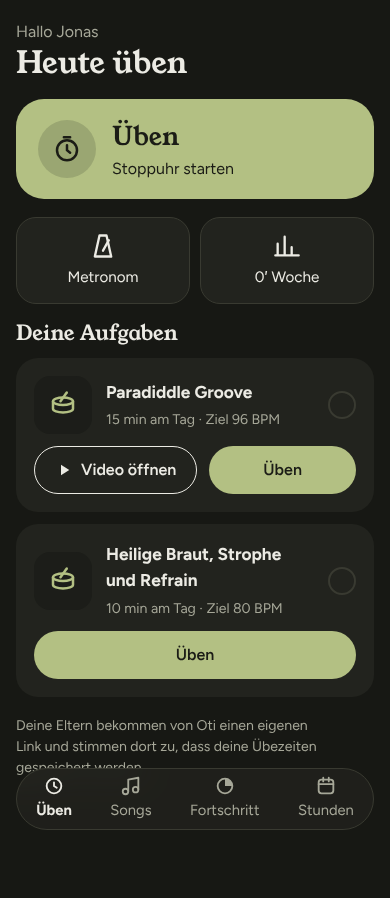
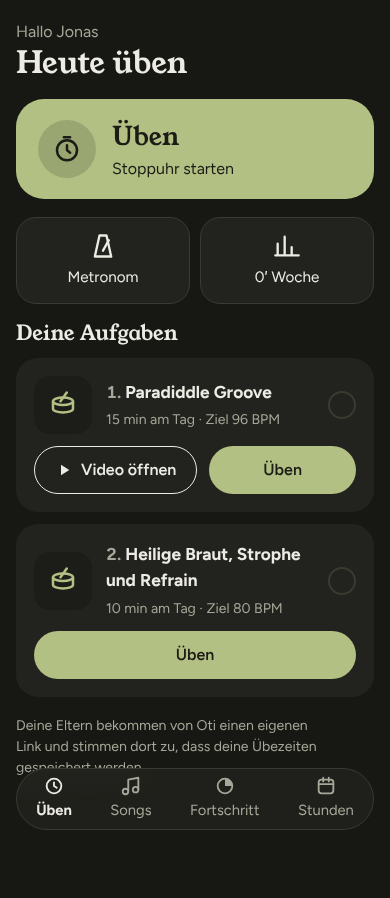
Hausaufgaben nummeriert (Schüler, Akte, Stunde), Nummern folgen der Reihenfolge
Claude-Session: https://claude.ai/code/session_01A3bZV3jynFTyqUVRK9pefN

Changed region(s): [[0.2769, 0.4053, 0.7077, 0.4677], [0.2769, 0.5924, 0.7692, 0.6236]]

diff --git a/public/index.html b/public/index.html
@@ -135,6 +135,10 @@ input[type=range]{accent-color:var(--ring);width:100%;min-height:32px}
 .clock-mini.paused{border-color:var(--ring)}
 .drag{cursor:grab;touch-action:none;user-select:none;-webkit-user-select:none;padding:10px 8px;margin-left:-8px;color:var(--muted);font-size:1.1rem;line-height:1;letter-spacing:-3px;align-self:center}
 .item.dragging{opacity:.75;background:var(--track);border-radius:12px}
+.asg-num{font-weight:700;color:var(--muted);min-width:1.4em;align-self:center;font-variant-numeric:tabular-nums}
+.task-title .asg-num{min-width:0}
+.item:has(> .asg-num){justify-content:flex-start;gap:10px}
+.item:has(> .asg-num) > .t{flex:1;min-width:0}
 .met-dot{width:38px;height:38px;border-radius:50%;border:3px solid var(--line);background:transparent;padding:0;cursor:pointer}
 .met-dot.acc2{border-color:var(--ring);box-shadow:inset 0 0 0 5px color-mix(in srgb,var(--ring) 35%,transparent)}
 .met-dot.acc0{border-style:dashed;opacity:.5}
@@ -194,8 +198,8 @@ details.card summary{cursor:pointer;font-family:var(--display);font-size:1.08rem
 </head>
 <body>
 <div id="app"><div class="wrap"><p class="muted">Lädt …</p></div></div>
-<script src="notation.js?v=42"></script>
-<script src="guitar.js?v=42"></script>
+<script src="notation.js?v=43"></script>
+<script src="guitar.js?v=43"></script>
 <script>
 'use strict';
 // ---------- Grundlagen ----------
@@ -514,7 +518,7 @@ function studentFileView() {
     <section class="card col">${cancelButtons(st.id)}${(f.cancellations || []).length ? `<details><summary class="small muted">Absagen (${f.cancellations.length})</summary><div class="list">${f.cancellations.map((c) => `<div class="item"><span class="t">${esc(fmtDate(c.date))}</span><span class="small muted">${CANCEL[c.kind] || c.kind}</span></div>`).join('')}</div></details>` : ''}</section>
     <section class="card"><h3>Übezeit pro Woche</h3>${weeksCircles(f.sessions)}</section>
     <div class="grid2">
-      <section class="card"><h3>Offene Hausaufgaben</h3><div class="list" data-sort="asg">${open.length ? open.map((a) => `<div class="item" style="flex-wrap:wrap" data-sort-id="${a.id}">${open.length > 1 ? DRAG : ''}<span class="t"><button class="link" data-act="asgDetail" data-id="${a.id}"><b>${esc(a.title || a.free_text)}</b></button>${a.target_bpm ? ' <span class="muted small">Ziel ' + a.target_bpm + '</span>' : ''}<br><span class="muted small">${practicedFor(a, f.sessions)}</span><br>${assignBadges(a)}</span>${a.url ? `<a class="btn small" href="${esc(a.url)}" target="_blank" rel="noopener">${linkLabel(a)}</a>` : ''}<button class="btn small" data-act="addLink" data-id="${a.id}">${a.url ? 'Link ändern' : 'Link hinzufügen'}</button>
+      <section class="card"><h3>Offene Hausaufgaben</h3><div class="list" data-sort="asg">${open.length ? open.map((a, i) => `<div class="item" style="flex-wrap:wrap" data-sort-id="${a.id}">${open.length > 1 ? DRAG : ''}<span class="asg-num" aria-hidden="true">${i + 1}</span><span class="t"><button class="link" data-act="asgDetail" data-id="${a.id}"><b>${esc(a.title || a.free_text)}</b></button>${a.target_bpm ? ' <span class="muted small">Ziel ' + a.target_bpm + '</span>' : ''}<br><span class="muted small">${practicedFor(a, f.sessions)}</span><br>${assignBadges(a)}</span>${a.url ? `<a class="btn small" href="${esc(a.url)}" target="_blank" rel="noopener">${linkLabel(a)}</a>` : ''}<button class="btn small" data-act="addLink" data-id="${a.id}">${a.url ? 'Link ändern' : 'Link hinzufügen'}</button>
         <div id="lk_${a.id}" class="row hidden" style="width:100%;flex-wrap:nowrap"><input id="lki_${a.id}" type="url" inputmode="url" placeholder="YouTube Link einfügen" style="flex:1"><button class="btn small primary" data-act="saveLink" data-id="${a.id}">Speichern</button></div></div>`).join('') : '<p class="muted">Keine.</p>'}</div></section>
       <section class="card"><h3>Ziele</h3><div class="list">${f.goals.length ? f.goals.map((g) => `<div class="item"><span class="t">${esc(g.title)}</span><span class="pill">${g.status === 'erreicht' ? 'erreicht' : 'offen'}</span></div>`).join('') : '<p class="muted">Noch keine Ziele.</p>'}</div></section>
     </div>
@@ -706,6 +710,7 @@ document.addEventListener('pointerdown', (ev) => {
   const up = async () => {
     window.removeEventListener('pointermove', move); window.removeEventListener('pointerup', up); window.removeEventListener('pointercancel', up); item.classList.remove('dragging');
     const ids = [...list.querySelectorAll(':scope > [data-sort-id]')].map((x) => x.dataset.sortId);
+    list.querySelectorAll(':scope > [data-sort-id] .asg-num').forEach((x, i) => { x.textContent = i + 1; });
     if (ids.join() === before.join() || !S.file) return;
     try {
       await api('/api/t/assignments/reorder', { student_id: S.file.student.id, ids });
@@ -716,9 +721,9 @@ document.addEventListener('pointerdown', (ev) => {
   window.addEventListener('pointermove', move); window.addEventListener('pointerup', up); window.addEventListener('pointercancel', up);
 });
 function newAsgNotation(a) { const e = a.exercise_id && (S.exercises || []).find((x) => x.id === a.exercise_id); return DrumNotation.parse(a.notation || (e && e.notation)); }
-function newAsgRow(a, i) {
+function newAsgRow(a, i, num) {
   const meta = [a.start_bpm || a.target_bpm ? (a.start_bpm || '?') + ' bis ' + (a.target_bpm || '?') + ' BPM' : '', a.minutes_per_day ? a.minutes_per_day + ' min' : ''].filter(Boolean).join(' · ');
-  if (S.newAsgI !== i) return `<div class="item"><span class="t"><button class="link" data-act="newAsgOpen" data-i="${i}"><b>${esc(a.label)}</b></button> <span class="pill">neu</span><br><span class="muted small">${meta}</span></span><button class="btn small" data-act="rmAssign" data-i="${i}">Entfernen</button></div>`;
+  if (S.newAsgI !== i) return `<div class="item">${num ? `<span class="asg-num" aria-hidden="true">${num}</span>` : ''}<span class="t"><button class="link" data-act="newAsgOpen" data-i="${i}"><b>${esc(a.label)}</b></button> <span class="pill">neu</span><br><span class="muted small">${meta}</span></span><button class="btn small" data-act="rmAssign" data-i="${i}">Entfernen</button></div>`;
   const n = newAsgNotation(a), editText = !a.exercise_id && !a.song_id;
   return `<div class="item col" style="align-items:stretch;gap:10px"><div class="row between"><b>${esc(a.label)} <span class="pill">neu</span></b><button class="btn small" data-act="newAsgClose">Zuklappen</button></div>
     ${editText ? `<div class="field"><label for="na_text">Aufgabe</label><input id="na_text" maxlength="300" value="${esc(a.free_text || '')}"></div>` : ''}
@@ -742,7 +747,7 @@ function lessonView() {
     ${st.profile_note ? `<details class="card"><summary>Steckbrief</summary><p style="white-space:pre-line">${esc(st.profile_note)}</p></details>` : ''}
     <div class="lesson-grid">
       <div class="col" style="gap:16px">
-        <section class="card"><h3>Hausaufgaben</h3><div class="list" data-sort="asg">${open.length ? open.map((a) => { const on = L.close_assignments.includes(a.id); return `<div class="item" data-sort-id="${a.id}">${open.length > 1 ? DRAG : ''}<span class="t"><button class="link" data-act="asgDetail" data-id="${a.id}"><b>${esc(a.title || a.free_text)}</b></button><br><span class="muted small">${practicedFor(a, f.sessions)}${a.target_bpm ? ' · Ziel ' + a.target_bpm : ''}</span><br>${assignBadges(a)}</span><button class="check ${on ? 'on' : ''}" data-act="toggleClose" data-id="${a.id}" aria-pressed="${on}" aria-label="Als erledigt markieren">${on ? '✓' : ''}</button></div>`; }).join('') : ''}${L.new_assignments.map((a, i) => newAsgRow(a, i)).join('')}${!open.length && !L.new_assignments.length ? '<p class="muted">Keine offenen Hausaufgaben.</p>' : ''}</div>
+        <section class="card"><h3>Hausaufgaben</h3><div class="list" data-sort="asg">${open.length ? open.map((a, i) => { const on = L.close_assignments.includes(a.id); return `<div class="item" data-sort-id="${a.id}">${open.length > 1 ? DRAG : ''}<span class="asg-num" aria-hidden="true">${i + 1}</span><span class="t"><button class="link" data-act="asgDetail" data-id="${a.id}"><b>${esc(a.title || a.free_text)}</b></button><br><span class="muted small">${practicedFor(a, f.sessions)}${a.target_bpm ? ' · Ziel ' + a.target_bpm : ''}</span><br>${assignBadges(a)}</span><button class="check ${on ? 'on' : ''}" data-act="toggleClose" data-id="${a.id}" aria-pressed="${on}" aria-label="Als erledigt markieren">${on ? '✓' : ''}</button></div>`; }).join('') : ''}${L.new_assignments.map((a, i) => newAsgRow(a, i, open.length + i + 1)).join('')}${!open.length && !L.new_assignments.length ? '<p class="muted">Keine offenen Hausaufgaben.</p>' : ''}</div>
           <form id="assignForm" class="col">
             ${(S.exercises || []).some((e) => e.category === 'Aufwärmen') ? `<details id="warmBox" ${S.warmOpen ? 'open' : ''}><summary class="small muted">Aufwärmen mit einem Tipp</summary><div class="row" style="gap:6px;margin-top:6px">${S.exercises.filter((e) => e.category === 'Aufwärmen').map((e) => `<button type="button" class="chip" data-act="warmAdd" data-id="${e.id}">${esc(e.title)}</button>`).join('')}</div></details>` : ''}
             <div class="row" style="flex-wrap:nowrap;align-items:flex-end"><div class="field" style="flex:1"><label for="a_song">Song</label><input id="a_song" list="a_songs" placeholder="Song suchen" autocomplete="off"><datalist id="a_songs">${(S.songs ? S.songs.songs : []).map((x) => `<option value="${esc(x.title)}"></option>`).join('')}</datalist></div><div class="field" style="width:110px"><label for="a_ver">Version</label><input id="a_ver" list="a_vers" placeholder="Original"><datalist id="a_vers"><option value="Original"></option><option value="Easy"></option></datalist></div></div>
@@ -809,7 +814,7 @@ function studentView(d = S.data, t = S.tab) {
     ${pending ? `<span class="pill">${pending} Sitzung${pending > 1 ? 'en' : ''} wird gesendet, sobald Internet da ist</span>` : ''}
     <section class="col"><div class="row between"><h2>Deine Aufgaben</h2>${streak ? `<span class="pill">${streak} ${streak === 1 ? 'Woche' : 'Wochen'} in Folge</span>` : ''}</div>
       ${openLessonCards()}
-      ${open.length ? open.map((a) => assignmentCard(a, sessions)).join('') : openLessonCards() ? '' : '<div class="empty">Keine offenen Aufgaben. Tipp oben auf Üben und spiel frei.</div>'}
+      ${open.length ? open.map((a, i) => assignmentCard(a, sessions, i + 1)).join('') : openLessonCards() ? '' : '<div class="empty">Keine offenen Aufgaben. Tipp oben auf Üben und spiel frei.</div>'}
     </section>
     ${done.length ? `<details class="card"><summary>Erledigt (${done.length})</summary><div class="list">${done.map((a) => `<div class="item"><span class="t">${esc(a.title || a.free_text)}${a.status === 'erledigt' ? '<br><span class="small muted">Von Oti bestätigt</span>' : '<br><span class="small muted">Oti schaut es sich in der Stunde an</span>'}</span><button class="check on" data-act="toggleDone" data-id="${a.id}" aria-pressed="true" aria-label="Wieder öffnen">✓</button></div>`).join('')}</div></details>` : ''}
     ${d.student.is_minor && !d.consent ? `<p class="small muted">Deine Eltern bekommen von Oti einen eigenen Link und stimmen dort zu, dass deine Übezeiten gespeichert werden.</p>` : ''}`;
@@ -1116,7 +1121,7 @@ function videoView() {
   </div>`;
 }
 function ytThumb(url) { const m = /(?:youtu\.be\/|v=|shorts\/|embed\/)([A-Za-z0-9_-]{11})/.exec(url || ''); return m ? 'https://i.ytimg.com/vi/' + m[1] + '/hqdefault.jpg' : null; }
-function assignmentCard(a, sessions) {
+function assignmentCard(a, sessions, num) {
   const list = sessions.filter((s) => s.assignment_id === a.id);
   const today = mins(list.filter((s) => s.local_date === localDate()).reduce((t, s) => t + s.seconds, 0));
   const goal = a.minutes_per_day || 10;
@@ -1124,7 +1129,7 @@ function assignmentCard(a, sessions) {
   const th = ytThumb(a.url);
   return `<section class="card task"><div class="row" style="flex-wrap:nowrap;align-items:center;gap:14px">
     ${th ? `<button class="thumb" data-act="video" data-id="${a.id}" aria-label="Video ansehen: ${esc(a.title || a.free_text)}"><img src="${th}" alt="" loading="lazy" onerror="this.remove()"><span class="thumb-play">${PLAY}</span></button>` : `<span class="task-icon" aria-hidden="true">${taskIcon(a)}</span>`}
-    <div class="col" style="gap:4px;flex:1;min-width:0"><b class="task-title">${esc(a.title || a.free_text)}</b><span class="muted small">${meta}</span></div>
+    <div class="col" style="gap:4px;flex:1;min-width:0"><b class="task-title">${num ? `<span class="asg-num">${num}.</span> ` : ''}${esc(a.title || a.free_text)}</b><span class="muted small">${meta}</span></div>
     <button class="check" data-act="toggleDone" data-id="${a.id}" aria-pressed="false" aria-label="Als erledigt abhaken"></button></div>
     ${notationPreview(a.notation, 'Noten: ' + (a.title || ''))}
     ${a.song_id ? `<button class="btn" data-act="song" data-id="${esc(a.song_id)}" data-v="${esc(a.song_version || '')}">Song öffnen${a.song_version ? ' · ' + esc(a.song_version) : ''}</button>` : ''}

diff --git a/public/sw.js b/public/sw.js
@@ -1,6 +1,6 @@
 // Practice Hub Service Worker: App Dateien offline, API nie aus dem Cache
-const CACHE = 'ph-v42';
-const FILES = ['./', 'index.html', 'datenschutz.html', 'manifest.webmanifest', 'icon.svg', 'icon-180.png', 'icon-512.png', 'notation.js?v=42', 'guitar.js?v=42', 'fonts/young-serif.woff2', 'fonts/figtree.woff2', 'samples/bd.mp3?v=42', 'samples/sn.mp3?v=42', 'samples/t1.mp3?v=42', 'samples/t2.mp3?v=42', 'samples/ft.mp3?v=42', 'samples/cr.mp3?v=42', 'samples/hh.mp3?v=42', 'samples/ho.mp3?v=42', 'samples/rd.mp3?v=42'];
+const CACHE = 'ph-v43';
+const FILES = ['./', 'index.html', 'datenschutz.html', 'manifest.webmanifest', 'icon.svg', 'icon-180.png', 'icon-512.png', 'notation.js?v=43', 'guitar.js?v=43', 'fonts/young-serif.woff2', 'fonts/figtree.woff2', 'samples/bd.mp3?v=43', 'samples/sn.mp3?v=43', 'samples/t1.mp3?v=43', 'samples/t2.mp3?v=43', 'samples/ft.mp3?v=43', 'samples/cr.mp3?v=43', 'samples/hh.mp3?v=43', 'samples/ho.mp3?v=43', 'samples/rd.mp3?v=43'];
 self.addEventListener('install', (e) => { e.waitUntil(caches.open(CACHE).then((c) => c.addAll(FILES)).then(() => self.skipWaiting())); });
 self.addEventListener('activate', (e) => { e.waitUntil(caches.keys().then((ks) => Promise.all(ks.filter((k) => k !== CACHE).map((k) => caches.delete(k)))).then(() => self.clients.claim())); });
 self.addEventListener('fetch', (e) => {
